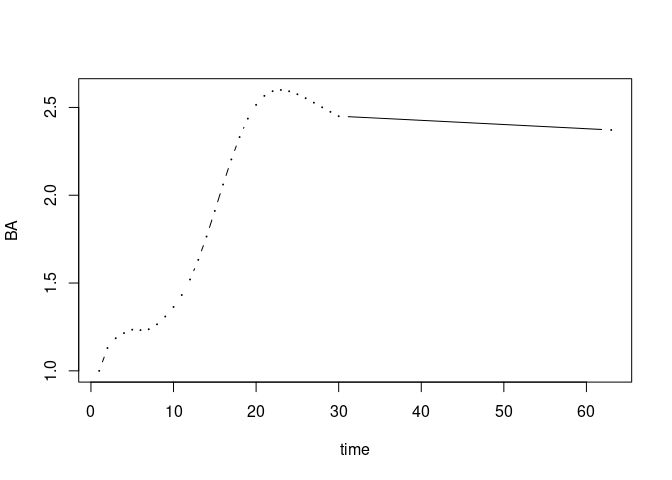
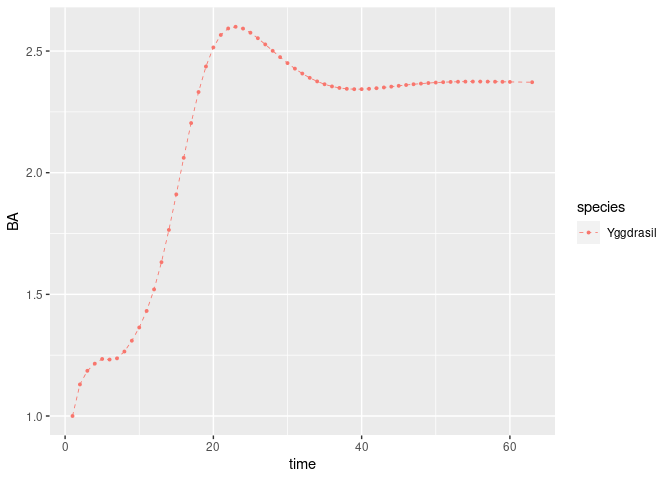
Fix harvest with delay and vignette
Constant rate harvest was impacting delayed mesh cells and reducing the
BA when delay was higher. This is fix by using ct vector to nullify the
harvest on theses mesh cells

Vignette was extended and all graph are now ggplot2 designed.

diff --git a/vignettes/multisp_deter_sim.md b/vignettes/multisp_deter_sim.md
@@ -3,6 +3,9 @@ Running multi species deterministic simulations
 
 ``` r
 library(treeforce)
+library(ggplot2)
+library(dplyr)
+library(magrittr)
 ```
 
 # Introduction
@@ -57,6 +60,7 @@ def_init
 #> 
 #>     return(res)
 #> }
+#> <bytecode: 0x563fb96cf408>
 #> <environment: namespace:treeforce>
 ```
 
@@ -81,13 +85,14 @@ equilibrium time (*equil_time*).
 
 ``` r
 set.seed(42)
-res <- sim_deter_forest(Forest, tlim = 30, equil_time = 1e3,
+sim1sp <- sim_deter_forest(Forest, tlim = 60, equil_time = 1e3,
                         correction = "cut", equil_dist = 50,
                         verbose = TRUE)
 #> apply a IPM cut correction
 #> Starting while loop. Maximum t = 1000
 #> Simulation ended after time 63
 #> BA stabilized at 2.37 with diff of 0.97 at time 63
+#> Time difference of 0.18 secs
 ```
 
 The output is a single table with time in column and different variables
@@ -100,22 +105,28 @@ state. They are defined below :
 -   Distribution of harvest
 -   Sum of harvest
 
+*Only few rows and columns are displayed below*
+
 ``` r
 m <- length(Forest$species$Yggdrasil$IPM$mesh)
-res[c(1:2, m:(m+3), (2 *m + 2):(2 *m + 3)), c(1:3,30:31)]
-#>                          t1           t2           t3          t30          t63
-#> Yggdrasil.m1   0.0000000001 2.324830e-01 0.2652896686 0.2172349914 0.2202405425
-#> Yggdrasil.m2   0.0000000001 2.324830e-01 0.3882716584 0.3561306655 0.3615941307
+sim1sp[c(1:2, m:(m+3), (2 *m + 2):(2 *m + 3)), c(1:3,30:31)]
+#>                          t1           t2           t3          t30          t31
+#> Yggdrasil.m1   0.0000000001 2.324830e-01 0.2652896686 0.2172349914 0.2179111877
+#> Yggdrasil.m2   0.0000000001 2.324830e-01 0.3882716584 0.3561306655 0.3572528088
 #> Yggdrasil.m30  0.0000000001 0.000000e+00 0.0000000000 0.0000000000 0.0000000000
-#> Yggdrasil.BAsp 1.0000000012 1.129719e+00 1.1857246574 2.4503084449 2.3717907899
-#> Yggdrasil.N    2.1973234556 2.603026e+00 2.8739984221 6.2944046900 6.1833693946
-#> Yggdrasil.h1   0.0000000000 1.056226e-13 0.0002455546 0.0002351896 0.0002391983
+#> Yggdrasil.BAsp 1.0000000012 1.129719e+00 1.1857246574 2.4503084449 2.4276446165
+#> Yggdrasil.N    2.1973234556 2.603026e+00 2.8739984221 6.2944046900 6.2512793204
+#> Yggdrasil.h1   0.0000000000 1.056226e-13 0.0002455546 0.0002351896 0.0002359474
 #> Yggdrasil.h30  0.0000000000 0.000000e+00 0.0000000000 0.0000000000 0.0000000000
-#> Yggdrasil.H    0.0000000000 1.290580e-02 0.0146364960 0.0358422185 0.0351437183
-times <- as.numeric(sub("t", "", colnames(res)))
+#> Yggdrasil.H    0.0000000000 1.290580e-02 0.0146364960 0.0358422185 0.0355752567
+times <- as.numeric(sub(".*t", "", colnames(sim1sp)))
 
-plot(times, res[grepl("BA",rownames(res)),], 
-     type = "b", ylab = "BA", xlab = "time", cex = 0.1)
+tree_format(sim1sp) %>%
+    filter(var == "BAsp") %>%
+    ggplot(aes(x = time, y = value, color = species)) +
+    geom_line(linetype = "dashed", size = .3) +
+    geom_point(size = .7) + ylab("BA") +
+    NULL
 ```
 
 ![](multisp_deter_sim_files/figure-gfm/single_print-1.png)<!-- -->
@@ -136,20 +147,23 @@ Forest2 <- forest(species = list(Yggdrasil = Yggdrasil,
                                  Ents = Ents))
 
 set.seed(42)
-res <- sim_deter_forest(Forest2, tlim = 30, equil_time = 1e3,
+sim2sp <- sim_deter_forest(Forest2, tlim = 30, equil_time = 1e3,
                         correction = "cut", equil_dist = 50,
                         verbose = TRUE)
 #> apply a IPM cut correction
 #> Starting while loop. Maximum t = 1000
 #> Simulation ended after time 66
 #> BA stabilized at 4.62 with diff of 0.84 at time 66
+#> Time difference of 0.313 secs
 ```
 
 The result is the same table with each species tables grouped one under
 the other. Since the species names is pasted with the variable name in
 row names, one can extract variables of interest.
 
-    #>                          t1           t2          t30         t66
+*Only few rows and columns are displayed below*
+
+    #>                          t1           t2          t30       eqt66
     #> Yggdrasil.m1   0.0000000001 2.265361e-01 0.2080203418 0.211777876
     #> Yggdrasil.m2   0.0000000001 2.265361e-01 0.3437018044 0.350519204
     #> Yggdrasil.m30  0.0000000001 0.000000e+00 0.0000000000 0.000000000
@@ -167,7 +181,18 @@ row names, one can extract variables of interest.
     #> Ents.h30       0.0000000000 0.000000e+00 0.0000000000 0.000000000
     #> Ents.H         0.0000000000 1.521604e-02 0.0345537161 0.034270182
 
-![](multisp_deter_sim_files/figure-gfm/two_print-1.png)<!-- -->
+``` r
+tree_format(sim2sp) %>%
+    filter(var == "BAsp") %>%
+    ggplot(aes(x = time, y = value, color = species)) +
+    geom_line(linetype = "dashed", size = .3) +
+    geom_point(size = .7) + ylab("BA") +
+    stat_summary(fun = sum, color = 'black', 
+                 geom ='line', linetype = "dashed", size = .3) +
+    NULL
+```
+
+![](multisp_deter_sim_files/figure-gfm/two_plot-1.png)<!-- -->
 
 ## Changing harvesting rules.
 
@@ -178,8 +203,10 @@ harvesting rate of 0.6 percent per year.
 ``` r
 Yggdrasil$harvest_fun
 #> function(x, species, targetBAcut, ct){
-#>     return(x * 0.006)
+#>     rate <- 0.006 * (ct > 0)
+#>     return(x * rate)
 #> }
+#> <bytecode: 0x563fb992fd50>
 #> <environment: namespace:treeforce>
 ```
 
@@ -196,7 +223,7 @@ Forest_harv <- forest(list(Yggdrasil),
                       harv_rules = c(Pmax = 1, dBAmin = 0.2, freq = 10, alpha = 1))
 targetBA <- 2
 set.seed(42)
-res <- sim_deter_forest(Forest_harv, tlim = 60, 
+sim1harv <- sim_deter_forest(Forest_harv, tlim = 60, 
                         equil_time = 60, equil_dist = 5,
                         correction = "cut", targetBA = targetBA,
                         verbose = TRUE)
@@ -204,6 +231,7 @@ res <- sim_deter_forest(Forest_harv, tlim = 60,
 #> Starting while loop. Maximum t = 60
 #> Simulation ended after time 60
 #> BA stabilized at 2.18 with diff of 0.32 at time 60
+#> Time difference of 0.218 secs
 ```
 
     #>                          t1       t2        t3       t30       t31
@@ -214,14 +242,21 @@ res <- sim_deter_forest(Forest_harv, tlim = 60,
     #> Yggdrasil.N    2.1973234556 2.615932 2.8998717 6.0079951 6.3133095
     #> Yggdrasil.h1   0.0000000000 0.000000 0.0000000 0.0000000 0.0000000
     #> Yggdrasil.h30  0.0000000000 0.000000 0.0000000 0.0000000 0.0000000
-    #> Yggdrasil.H    0.0000000000 0.000000 0.0000000 0.5874806 0.5874806
+    #> Yggdrasil.H    0.0000000000 0.000000 0.0000000 0.5874806 0.0000000
 
-![](multisp_deter_sim_files/figure-gfm/harv_print-1.png)<!-- -->![](multisp_deter_sim_files/figure-gfm/harv_print-2.png)<!-- -->
+``` r
+tree_format(sim1harv) %>%
+    filter(var %in% c("BAsp", "H"),  !equil) %>%
+    ggplot(aes(x = time, y = value, color = species)) +
+    geom_line(linetype = "dashed", size = .3) +
+    geom_point(size = .7) +
+    facet_wrap(~ var, scales = "free_y") +
+    NULL
+```
 
-Here we observe that harvest is not enough to reach targetBA. This could
-be explained by a restriction in tree size target.
+![](multisp_deter_sim_files/figure-gfm/harv_plot-1.png)<!-- -->
 
-![](multisp_deter_sim_files/figure-gfm/unnamed-chunk-4-1.png)<!-- -->
+<!-- Here we observe that harvest is not enough to reach targetBA. This could be explained by a restriction in tree size target. -->
 
 The uneven harvest is possible with multiple species. Multiple
 parameters will scale the effect of harvest :
@@ -244,7 +279,7 @@ Forest_harv2 <- forest(species = list(Yggdrasil = Yggdrasil,
                        harv_rules = c(Pmax = 1, dBAmin = 0.2, freq = 5, alpha = 1))
 
 set.seed(42)
-res <- sim_deter_forest(Forest_harv2, tlim = 60, 
+sim2harv <- sim_deter_forest(Forest_harv2, tlim = 60, 
                         equil_time = 60, equil_dist = 5,
                         correction = "cut", targetBA = targetBA,
                         verbose = TRUE)
@@ -252,6 +287,85 @@ res <- sim_deter_forest(Forest_harv2, tlim = 60,
 #> Starting while loop. Maximum t = 60
 #> Simulation ended after time 60
 #> BA stabilized at 2.35 with diff of 1.36 at time 60
+#> Time difference of 0.274 secs
 ```
 
-![](multisp_deter_sim_files/figure-gfm/harv_two_print-1.png)<!-- -->
+``` r
+tree_format(sim2harv) %>%
+    filter(var == "BAsp", !equil) %>% 
+    ggplot(aes(x = time, y = value, color = species)) +
+    geom_line(linetype = "dashed", size = .3) +
+    geom_point(size = .7) + ylab("BA") +
+    stat_summary(fun = sum, color = 'black', na.rm = TRUE,
+                 geom ='line', linetype = "dashed", size = .3) +
+    geom_hline(yintercept = targetBA, linetype = "dotted")+
+    NULL
+```
+
+![](multisp_deter_sim_files/figure-gfm/harv_two_plot-1.png)<!-- -->
+
+## Recruitment delay
+
+We can modify a species to add more delay for recruitment of new
+individuals.
+
+``` r
+n_delay <- 5
+
+Yggdrasil$harvest_fun <- def_harv
+Yggdrasil_d5 <- delay(Yggdrasil, n_delay)
+Yggdrasil_d5$info["species"] <- "Yggdrasil_d5"
+Forest_delay <- forest(list(Yggdrasil_d5))
+```
+
+Simulation doesn’t change anything, the delay is only defined at the IPM
+level.
+
+``` r
+set.seed(42)
+sim5d <- sim_deter_forest(Forest_delay, tlim = 60, equil_time = 1e3,
+                        correction = "cut", equil_dist = 50,
+                        verbose = TRUE)
+#> apply a IPM cut correction
+#> Starting while loop. Maximum t = 1000
+#> Simulation ended after time 69
+#> BA stabilized at 2.39 with diff of 0.91 at time 69
+#> Time difference of 0.242 secs
+```
+
+Equilibrium BA should be really close ($\Delta_{BA} < 1$). N is expected
+to increase with delay since delayed mesh cell with seeds are counted
+in.
+
+``` r
+tree_format(sim5d) %>%
+    rbind(tree_format(sim1sp)) %>%
+    filter(var %in% c("BAsp", "N")) %>%
+    ggplot(aes(x = time, y = value, color = species)) +
+    geom_line(linetype = "dashed", size = .3) +
+    geom_point(size = .7) + ylab("BA") +
+    facet_wrap(~ var, scales = "free_y") +
+    NULL
+```
+
+![](multisp_deter_sim_files/figure-gfm/delay_plot-1.png)<!-- -->
+
+Despite a really close BA, the size distribution is different at
+equilibrium.
+
+*Note : Values below the redline does not count in BA computation.*
+
+``` r
+tree_format(sim5d) %>%
+    mutate(mesh = mesh - n_delay) %>%
+    rbind(tree_format(sim1sp)) %>%
+    filter(var == "m", equil) %>%
+    ggplot(aes(x = mesh, y = value, fill = species, group = desc(species))) +
+    geom_area(color = "black", alpha = .3, size = .4, position = "identity") +
+    geom_vline(xintercept = 1, color = "red") +
+    annotate("text", x = 0, y = .1, label = "Minimal mesh in BA", size = 3,
+             color = "red", angle = 90) +
+    NULL
+```
+
+![](multisp_deter_sim_files/figure-gfm/delay_dist_plot-1.png)<!-- -->
